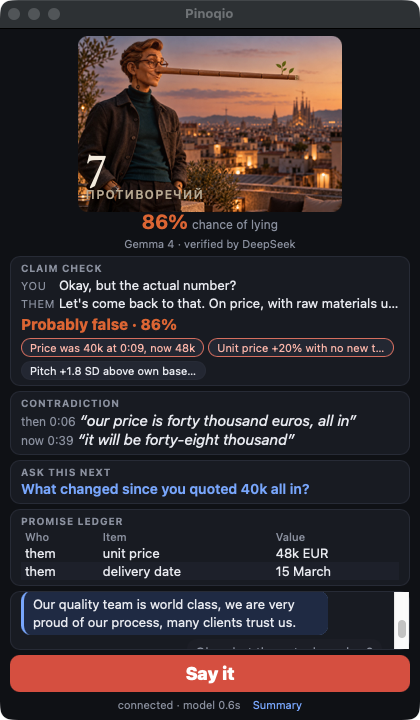
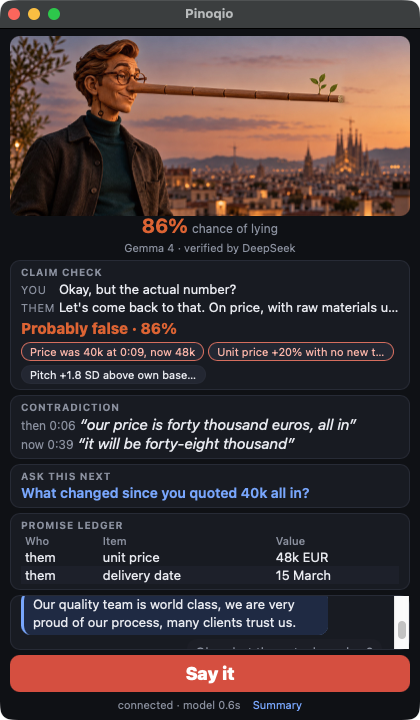
feat(copilot): scene art full width on top, no text over the photo

diff --git a/copilot/pinoqio/ui/index.html b/copilot/pinoqio/ui/index.html
@@ -27,8 +27,10 @@
   #face img { position:absolute; inset:0; width:100%; height:100%; opacity:0; transition:opacity .4s ease-in-out; }
   #face img.on { opacity:1; }
   /* ?art=scene: partner's photo player in the face slot (3:2) instead of the cartoon frames */
-  #scene { display:none; width:264px; height:176px; border:0; border-radius:10px; margin:0 auto; }
-  body.scene #scene { display:block; }
+  /* full-width photo in its own area; all text lives in the cards below it (bottom of the photo is cropped) */
+  #scenebox { display:none; width:100%; height:180px; overflow:hidden; border-radius:10px; }
+  #scene { width:100%; aspect-ratio:3/2; height:auto; border:0; display:block; }
+  body.scene #scenebox { display:block; }
   body.scene #face { display:none; }
   /* cartoon squash & stretch on the head, tip glow flash, comic burst, leaf, deflate */
   #face.boing { animation:boing .6s cubic-bezier(.3,1.6,.5,1); transform-origin:35% 65%; }
@@ -113,7 +115,7 @@
     </svg>
     <div id="burst" class="burst" aria-hidden="true"></div>
   </div>
-  <iframe id="scene" title="Pinoqio scene" aria-hidden="true"></iframe>
+  <div id="scenebox"><iframe id="scene" title="Pinoqio scene" aria-hidden="true"></iframe></div>
   <div id="pct">0% <small>chance of lying</small></div>
   <div id="badge"></div>
 </div>
@@ -175,9 +177,9 @@
     document.body.classList.add('scene');
     const frame = $('scene');
     frame.onload = () => {
-      try {  // at 264x176 the speech bubble would cover the nose; our own cards carry the text
+      try {  // no text over the photo: hide the player's caption bubble and contradiction counter
         const css = frame.contentDocument.createElement('style');
-        css.textContent = '.bubble { display: none !important; }';
+        css.textContent = '.bubble, .count, .top, .bar, .hint { display: none !important; }';
         frame.contentDocument.head.appendChild(css);
       } catch (e) { console.warn('could not hide the scene bubble', e); }
       scene.ready = true; pushScene();
